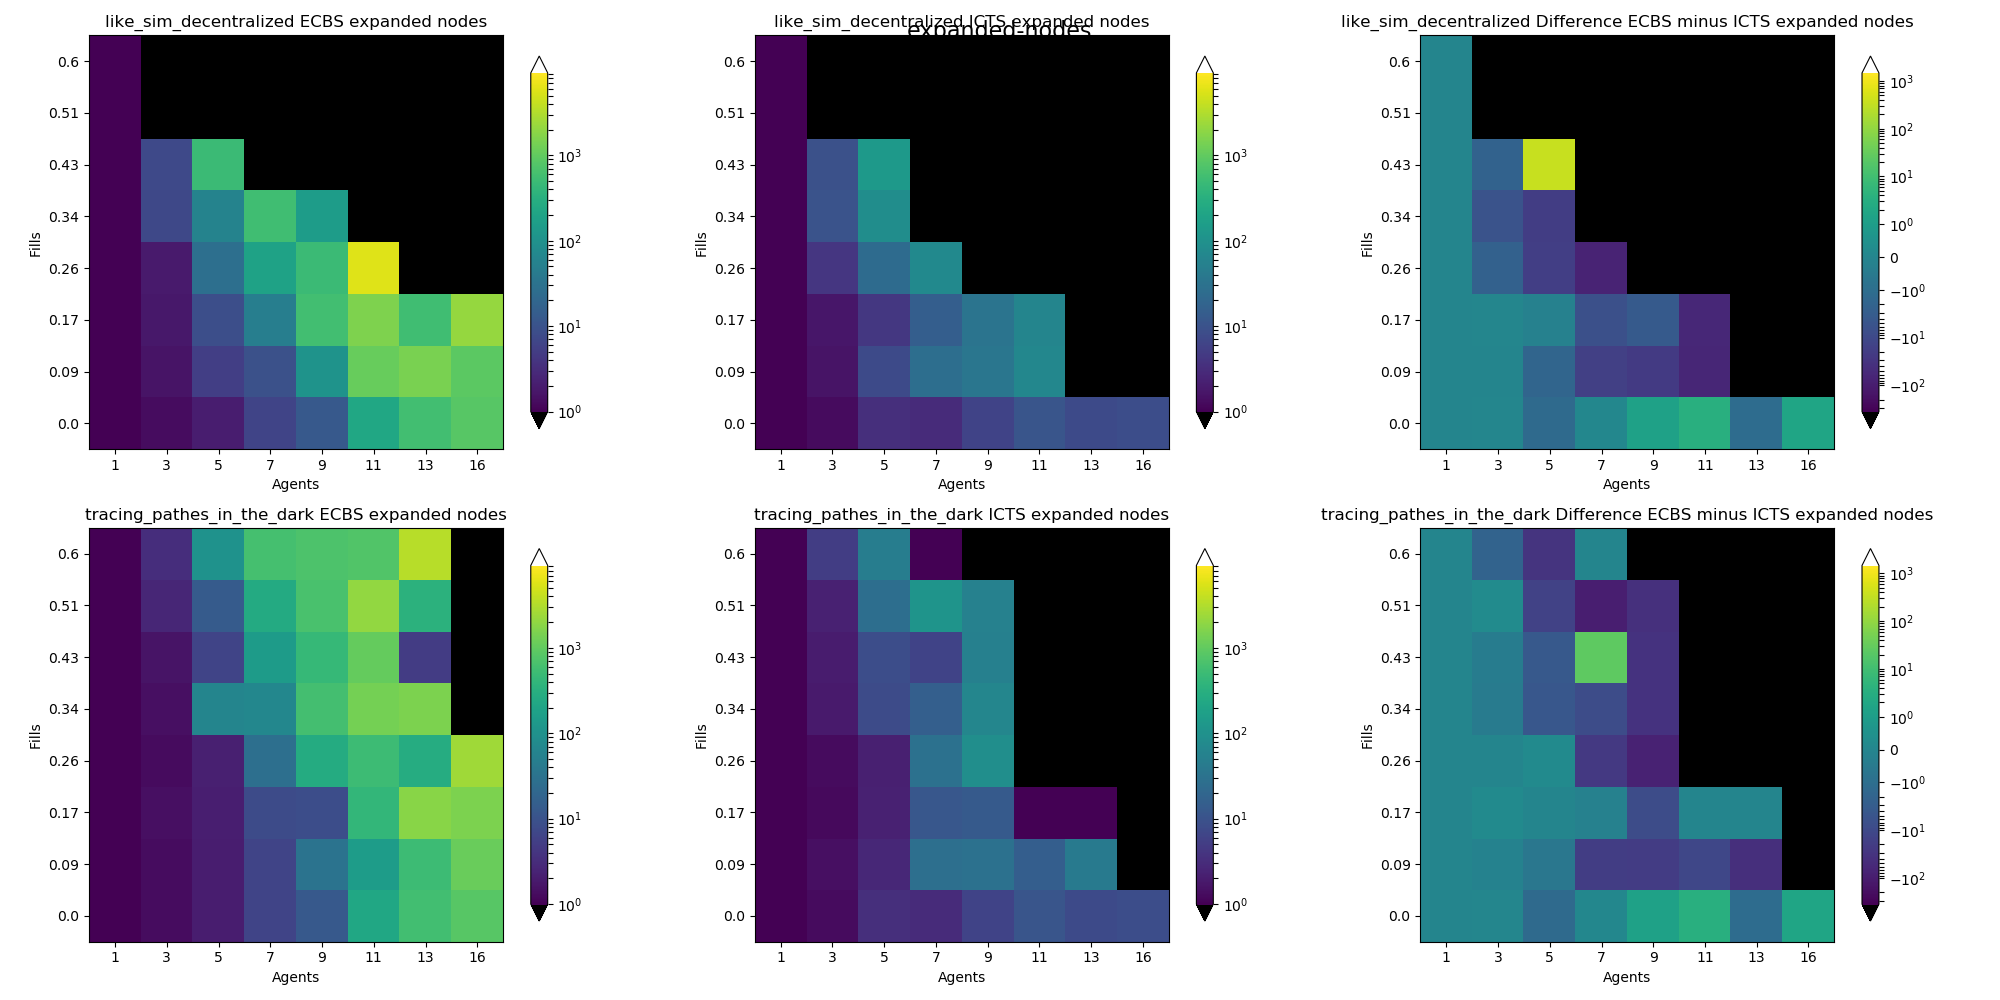
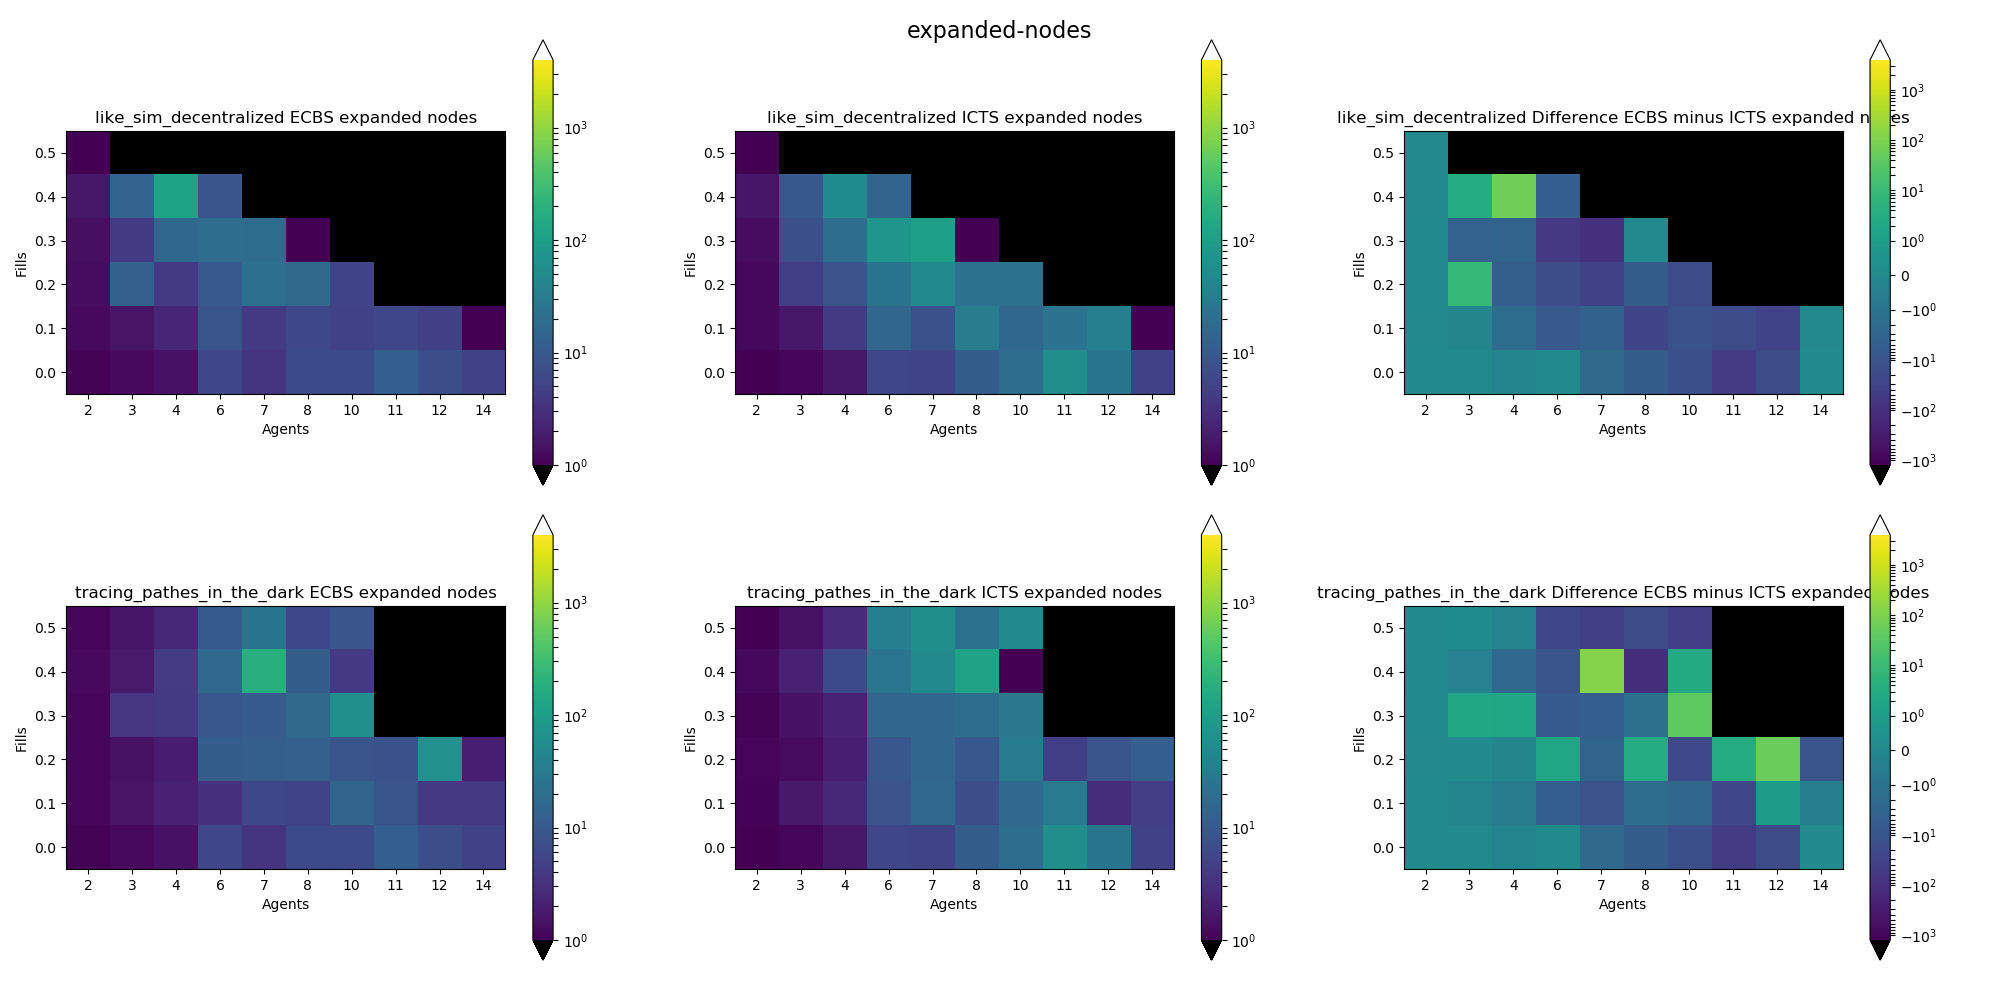
focus dataset

diff --git a/scenarios/main_eval.py b/scenarios/main_eval.py
@@ -37,11 +37,14 @@ DIFFERENCE_ECBS_EN_MINUS_ICTS_EN = "difference_ecbs_en_-_icts_en"
 
 def init_values_debug():
     size = 8  # size for all scenarios
-    n_fills = 4  # how many different fill values there should be
-    n_n_agentss = 4  # how many different numbers of agents should there be"""
-    n_runs = 4  # how many runs per configuration
+    n_fills = 2  # how many different fill values there should be
+    n_n_agentss = 2  # how many different numbers of agents should there be"""
+    n_runs = 2  # how many runs per configuration
     max_fill = .4  # maximal fill to sample until
-    return max_fill, n_fills, n_n_agentss, n_runs, size
+    low_agents = 1  # lowest number of agents
+    high_agents = 5  # highest number of agents
+    return (max_fill, n_fills, n_n_agentss, n_runs, size,
+            low_agents, high_agents)
 
 
 def init_values_main():
@@ -50,7 +53,22 @@ def init_values_main():
     n_n_agentss = 8  # how many different numbers of agents should there be"""
     n_runs = 32  # how many runs per configuration
     max_fill = .6  # maximal fill to sample until
-    return max_fill, n_fills, n_n_agentss, n_runs, size
+    low_agents = 1  # lowest number of agents
+    high_agents = 16  # highest number of agents
+    return (max_fill, n_fills, n_n_agentss, n_runs, size,
+            low_agents, high_agents)
+
+
+def init_values_focus():
+    size = 8  # size for all scenarios
+    n_fills = 6  # how many different fill values there should be
+    n_n_agentss = 10  # how many different numbers of agents should there be"""
+    n_runs = 64  # how many runs per configuration
+    max_fill = .5  # maximal fill to sample until
+    low_agents = 2  # lowest number of agents
+    high_agents = 14  # highest number of agents
+    return (max_fill, n_fills, n_n_agentss, n_runs, size,
+            low_agents, high_agents)
 
 
 def get_fname(generator_name, evaluation, extension):
@@ -155,8 +173,12 @@ def main_icts():
     # no warnings pls
     logging.getLogger('sim.decentralized.agent').setLevel(logging.ERROR)
 
-    # max_fill, n_fills, n_n_agentss, n_runs, size = init_values_debug()
-    max_fill, n_fills, n_n_agentss, n_runs, size = init_values_main()
+    # (max_fill, n_fills, n_n_agentss, n_runs, size,
+    #  low_agents, high_agents) = init_values_debug()
+    # (max_fill, n_fills, n_n_agentss, n_runs, size,
+    #  low_agents, high_agents) = init_values_main()
+    (max_fill, n_fills, n_n_agentss, n_runs, size,
+     low_agents, high_agents) = init_values_focus()
 
     # parameters to evaluate against
     generators = [
@@ -170,7 +192,7 @@ def main_icts():
         2
     )  # list of fills we want
 
-    n_agentss = np.linspace(1, 16, n_n_agentss, dtype=np.int
+    n_agentss = np.linspace(low_agents, high_agents, n_n_agentss, dtype=np.int
                             )  # list of different numbers of agents we want
 
     evaluations = [
@@ -201,7 +223,7 @@ def main_icts():
 
     pdo = ProgressBar(BLUE_SEQ + "Overall" + RESET_SEQ, n_runs)
     for i_r in range(n_runs):
-        df_col = evaluate_one_column(
+        df_col = evaluate_en_comparison(
             i_r, idx, generators, fills, n_agentss, size)
         add_colums(df_results, df_col)
         pdo.progress()
@@ -252,12 +274,12 @@ def main_icts():
     plt.show()
 
 
-def evaluate_one_column(i_r, idx, generators, fills, n_agentss, size):
+def evaluate_full(i_r, idx, generators, fills, n_agentss, size):
     col_name = "seed{}".format(i_r)
     pb = ProgressBar("column >{}<".format(col_name),
                      (len(generators) * len(fills) * len(n_agentss)), 10)
     # Taking care of some little pandas ...........................
-    df_col = pd.DataFrame(index=idx)
+    df_col = pd.DataFrame(index=idx, dtype=np.float)
     df_col[col_name] = [np.nan] * len(df_col.index)
     df_col.sort_index(inplace=True)
     for gen, i_f, i_a in product(generators,
@@ -337,12 +359,11 @@ def evaluate_one_column(i_r, idx, generators, fills, n_agentss, size):
                 env, starts, goals)
         # run icts and compare n of expanded nodes
         if (
-            df_col.loc[
-                (genstr(gen), fill, n_agents, ECBS_EXPANDED_NODES), col_name
-            ] is not np.nan and
-            df_col.loc[
-                (genstr(gen), fill, n_agents, ICTS_EXPANDED_NODES), col_name
-            ] is not np.nan
+            not np.isnan(df_col.loc[
+                (genstr(gen), fill, n_agents, ECBS_EXPANDED_NODES), col_name])
+            and
+            not np.isnan(df_col.loc[
+                (genstr(gen), fill, n_agents, ICTS_EXPANDED_NODES), col_name])
         ):
             df_col.loc[
                 (genstr(gen), fill, n_agents,
@@ -358,6 +379,122 @@ def evaluate_one_column(i_r, idx, generators, fills, n_agentss, size):
                     col_name
                 ]
             )
+    pb.end()
+    return df_col
+
+
+def evaluate_en_comparison(i_r, idx, generators, fills, n_agentss, size):
+    col_name = "seed{}".format(i_r)
+    pb = ProgressBar("column >{}<".format(col_name),
+                     (len(generators) * len(fills) * len(n_agentss)), 10)
+    # Taking care of some little pandas ...........................
+    df_col = pd.DataFrame(index=idx, dtype=np.float)
+    df_col[col_name] = [np.nan] * len(df_col.index)
+    df_col.sort_index(inplace=True)
+    for gen, i_f, i_a in product(generators,
+                                 range(len(fills)),
+                                 range(len(n_agentss))):
+        pb.progress()
+        # generating a scenario .......................................
+        fill = fills[i_f]
+        n_agents = n_agentss[i_a]
+        env, starts, goals = gen(
+            size, fill, n_agents, seed=i_r)
+        # calculating optimal cost ....................................
+        if i_f > 0 and df_col.loc[
+                (genstr(gen), fills[i_f-1], n_agents, ECBS_SUCCESS), col_name
+        ] == NO_SUCCESS:
+            # previous fills timed out
+            res_ecbs = INVALID
+        elif i_a > 0 and df_col.loc[
+                (genstr(gen), fill, n_agentss[i_a-1], ECBS_SUCCESS), col_name
+        ] == NO_SUCCESS:
+            # previous agent count failed as well
+            res_ecbs = INVALID
+        else:
+            res_ecbs = cost_ecbs(env, starts, goals)
+        if res_ecbs == INVALID:
+            df_col.loc[
+                (genstr(gen), fill, n_agents,
+                 ECBS_SUCCESS), col_name] = NO_SUCCESS
+        else:  # valid ecbs result
+            df_col.loc[
+                (genstr(gen), fill, n_agents, ECBS_SUCCESS),
+                col_name] = SUCCESS
+            df_col.loc[
+                (genstr(gen), fill, n_agents, ECBS_COST),
+                col_name] = res_ecbs
+            df_col.loc[
+                (genstr(gen), fill, n_agents, ECBS_EXPANDED_NODES), col_name
+            ] = expanded_nodes_ecbs(
+                env, starts, goals)
+            # evaluating blocks
+            blocks = blocks_ecbs(env, starts, goals)
+            if blocks != INVALID:
+                (
+                    df_col.loc[
+                        (genstr(gen), fill, n_agents,
+                         ECBS_VERTEX_BLOCKS), col_name],
+                    df_col.loc[
+                        (genstr(gen), fill, n_agents,
+                         ECBS_EDGE_BLOCKS), col_name]
+                ) = blocks
+        # what is icts cost? ..........................................
+        if i_f > 0 and df_col.loc[
+                (genstr(gen), fills[i_f-1], n_agents, ICTS_SUCCESS), col_name
+        ] == NO_SUCCESS:
+            # previous fills timed out
+            res_icts = INVALID
+        elif i_a > 0 and df_col.loc[
+                (genstr(gen), fill, n_agentss[i_a-1], ICTS_SUCCESS), col_name
+        ] == NO_SUCCESS:
+            # previous agent count failed as well
+            res_icts = INVALID
+        else:
+            res_icts = cost_icts(env, starts, goals)
+        if res_icts == INVALID:
+            df_col.loc[
+                (genstr(gen), fill, n_agents, ICTS_SUCCESS),
+                col_name] = NO_SUCCESS
+        else:
+            df_col.loc[
+                (genstr(gen), fill, n_agents, ICTS_SUCCESS),
+                col_name] = SUCCESS
+            df_col.loc[
+                (genstr(gen), fill, n_agents, ICTS_COST), col_name] = res_icts
+            df_col.loc[
+                (genstr(gen), fill, n_agents, ICTS_EXPANDED_NODES), col_name
+            ] = expanded_nodes_icts(
+                env, starts, goals)
+        # run icts and compare n of expanded nodes
+        if (
+            not np.isnan(df_col.loc[
+                (genstr(gen), fill, n_agents, ECBS_EXPANDED_NODES), col_name])
+            and
+            not np.isnan(df_col.loc[
+                (genstr(gen), fill, n_agents, ICTS_EXPANDED_NODES), col_name])
+        ):
+            df_col.loc[
+                (genstr(gen), fill, n_agents,
+                 DIFFERENCE_ECBS_EN_MINUS_ICTS_EN),
+                col_name
+            ] = float(
+                df_col.loc[
+                    (genstr(gen), fill, n_agents, ECBS_EXPANDED_NODES),
+                    col_name
+                ] -
+                df_col.loc[
+                    (genstr(gen), fill, n_agents, ICTS_EXPANDED_NODES),
+                    col_name
+                ]
+            )
+        else:
+            df_col.loc[
+                (genstr(gen), fill, n_agents, ECBS_EXPANDED_NODES), col_name
+            ] = np.nan
+            df_col.loc[
+                (genstr(gen), fill, n_agents, ICTS_EXPANDED_NODES), col_name
+            ] = np.nan
     pb.end()
     return df_col
 
